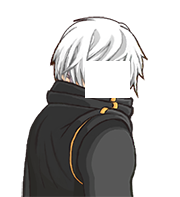
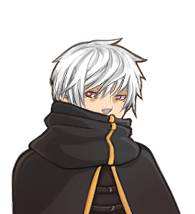
Annikath version of Mestan

diff --git a/Bust Config.rb b/Bust Config.rb
@@ -474,10 +474,9 @@ Busty::BASE_CONFIG.merge!({
     face_offset_y: 28,
   },
   "Mestan" => {
-    bust_scale: 0.66,
-    face_offset_x: 52,
-    face_offset_y: 41,
-    face_z: -1,
+    bust_scale: 0.71,
+    face_offset_x: 50,
+    face_offset_y: 61,
   },
   "Min" => {
     bust_scale: 0.70,
@@ -879,9 +878,6 @@ Busty::MESSAGE_CONFIG.merge!({
   },
   "Melymyn" => {
     bust_offset_y: 8,
-  },
-  "Mestan" => {
-    bust_offset_y: -5,
   },
   "Mithyn" => {
     bust_offset_x: -145,
